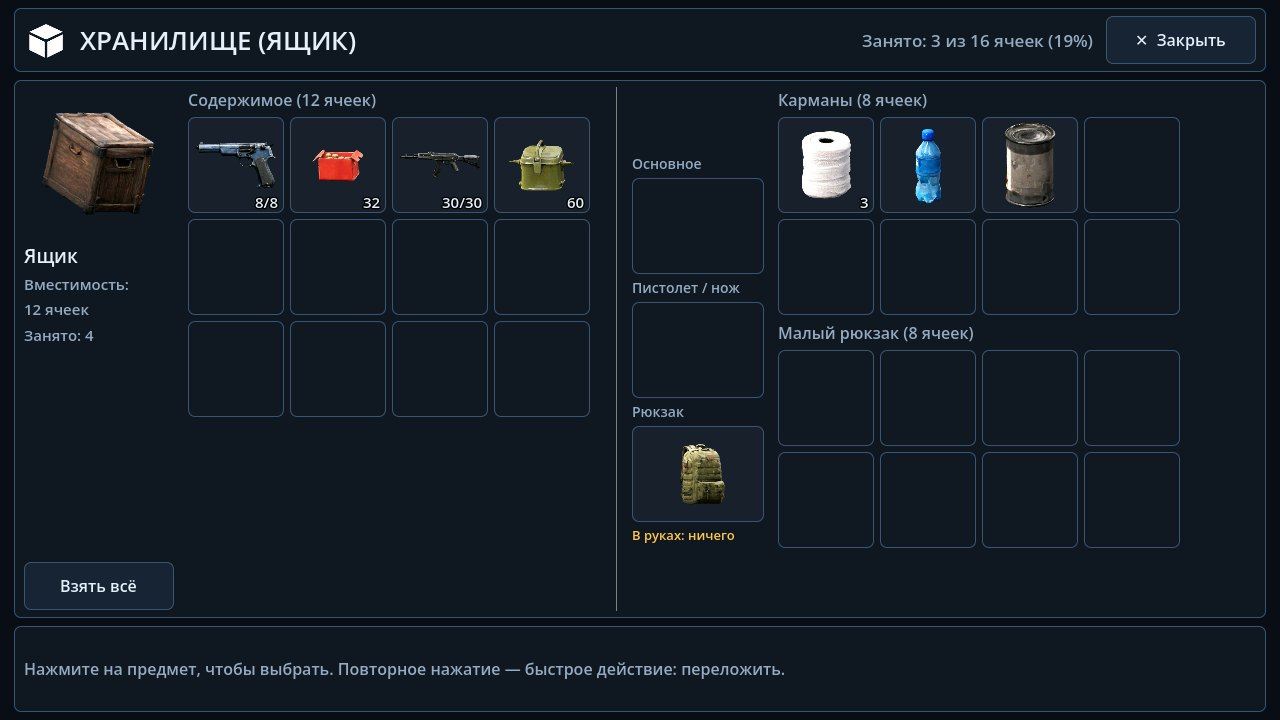
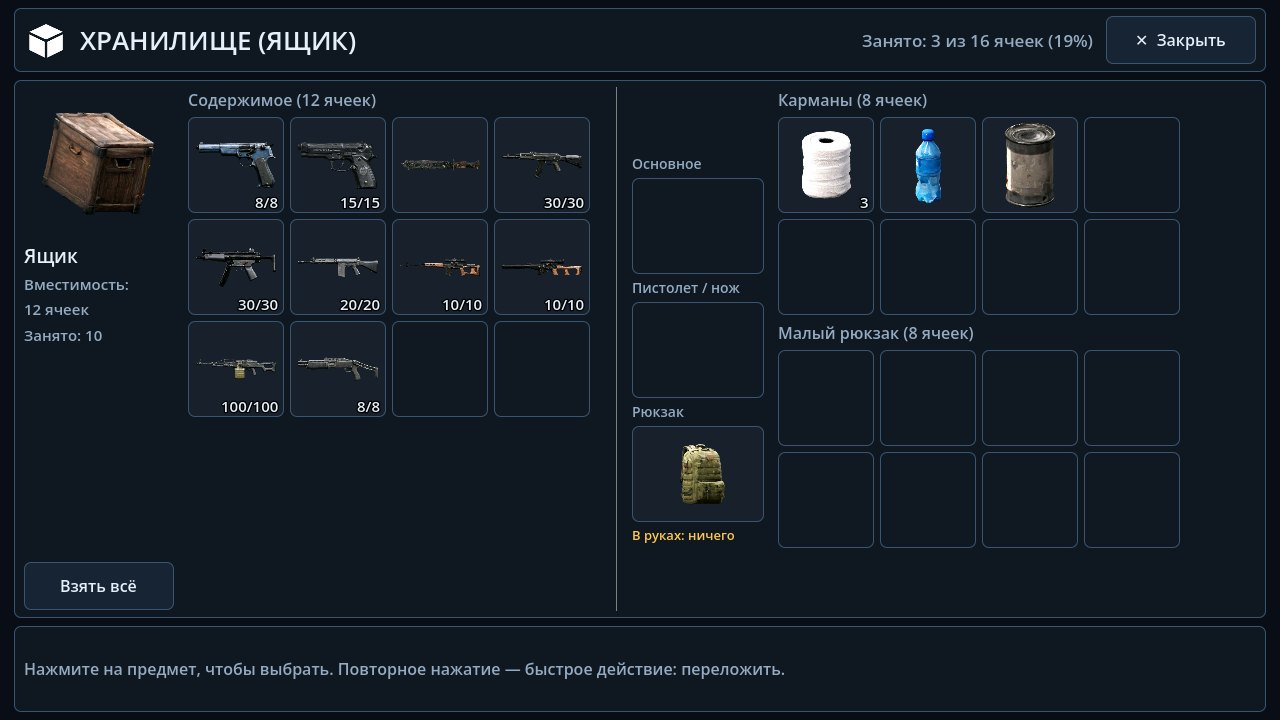
Локация: быстрый отклик управления, автонаведение, манекен, ящики со всем оружием, сборка 15
- разгон до полного бега за 0.1–0.2 с, остановка за 0.1 с; камера без отставания; центр джойстика идёт за пальцем
- удержание кнопки атаки повторяет атаку любым оружием; нажатие во время доставания не теряется
- герой сам берёт ближайшую видимую цель в пределах дальности оружия, под целью — метка
- темп в игре: доставание ×2.2, удары ×1.3, перезарядка ×1.25 (BCWeaponHold: draw_rate, move_rate, reload_rate)
- манекен во дворе: не падает, показывает урон серии и урон в секунду
- при первом запуске в ящиках — всё оружие и патроны; версия сохранения 6
- проверка без экрана: 52 случая, в том числе отклик, автонаведение, манекен

Claude-Session: https://claude.ai/code/session_012mFYCmtNnDBPzGE6DVCLqL

diff --git a/stand/docs/WORLD.md b/stand/docs/WORLD.md
@@ -25,7 +25,10 @@
   по верху — две нити колючей проволоки), спереди — проход-калитка. У забора — бочки и покрышки, во дворе —
   поленница и колода.
 - Ящики (модель Tripo) — хранилища на 12 ячеек: кнопка «Постройка» ставит ящик перед героем (не в стену),
-  в меню — «Убрать ящик». Ящики сохраняются; при первом запуске — два ящика в кладовой.
+  в меню — «Убрать ящик». Ящики сохраняются; при первом запуске — два ящика в кладовой: в первом — всё оружие
+  игры (ТТ, Beretta, мачете, АК-74М, MP5, FN FAL, СВД, ВСС, ПКП, SPAS-12), во втором — патроны ко всему и аптечки.
+- Манекен во дворе справа от крыльца — фигура в рост человека из мешковины на стойке: на нём пробуют оружие.
+  Не падает (запас прочности восстанавливается сам), над головой — урон серии и урон в секунду.
 - Герой — тот же, что на стенде (движения, рюкзаки, оружие, звуки).
 
 ## Вид и графика
@@ -51,6 +54,13 @@
   - **инвентарь**.
 - Справа вверху — «Постройка» (поставить ящик) и «Меню» («Убрать ящик», «Стенд»).
 - Каждый палец обрабатывается отдельно: можно бежать и одновременно стрелять.
+- Отклик: полный бег — через 0.1–0.2 с после нажатия, остановка — за 0.1 с; центр джойстика подтягивается
+  за пальцем (развернуться можно коротким движением); камера идёт за героем без отставания.
+- Атака: удержание кнопки повторяет атаку в темпе оружия (и кулаки, и мачете, и одиночный огонь). Нажатие чуть
+  раньше срока — пока оружие достаётся или не кончился прошлый удар — не теряется. Герой сам поворачивается
+  к ближайшей цели: вплотную — для кулаков и мачете, в пределах дальности оружия — для огнестрела (только к той,
+  что видно: через забор и стены цель не берётся). Под целью — красная метка.
+- В игре оружие достаётся в 2.2 раза быстрее, чем на стенде, удары мачете и кулаков — в 1.3, перезарядка — в 1.25.
 - На компьютере: WASD, Shift — быстрее, пробел — атака, E — действие, I — инвентарь, Q — оружие, R — перезарядка,
   H — лечение, колесо — приблизить.
 
@@ -59,7 +69,8 @@
   (у дробовика — 8 дробин), трассер, вспышка, звук и отдача; патрон уходит из магазина оружия.
 - Перезарядка идёт движением героя (магазин, затвор) и забирает патроны нужного калибра из карманов и рюкзака.
 - Мачете носится во втором слоте вместо пистолета: удар 40. Кулаки — 8 за удар.
-- Мишени-чучела у дома: показывают урон цифрой, на нуле падают и через 6 с встают.
+- Манекен у базы и две мишени-чучела в поле (12 и 25 м от калитки): урон показывается цифрой; чучела на нуле
+  падают и через 6 с встают.
 - Здоровье 100, энергия 100, вода 100. Вода медленно убывает; без воды энергия не восстанавливается.
 
 ## Инвентарь (`core/world/items.gd`, `inventory.gd`, `inventory_ui.gd`)
@@ -76,7 +87,7 @@
 - Выброшенный предмет ложится на землю перед героем — своей 3D-моделью.
 - Рюкзак с земли можно надеть вместе с вещами; надетый при этом ложится на землю со своими вещами. Рюкзак
   с вещами нельзя убрать в ячейку — только выбросить.
-- Всё сохраняется (`user://cluster.json`, версия 5): инвентарь, предметы на земле, содержимое ящиков, здоровье,
+- Всё сохраняется (`user://cluster.json`, версия 6): инвентарь, предметы на земле, содержимое ящиков, здоровье,
   энергия, вода, патроны в магазинах.
 
 ## Набор припасов — одна модель Tripo
@@ -91,7 +102,10 @@
 - Так же можно добавлять следующие наборы: одна генерация — много предметов (`tools/kit_view.gd` — обзор набора).
 
 ## Проверка
-- `godot --path . res://world.tscn -- --as-test=inv` — 41 случай: логика инвентаря (стопки, слоты, ёмкость
+- `godot --path . --headless res://world.tscn -- --as-test=inv` — 52 случая (без экрана — 40 секунд, время
+  считается честно, 60 кадров/с): отклик управления (разгон, остановка, камера), нажатие во время доставания
+  оружия, автонаведение за спину и через забор, удержание кнопки, манекен, содержимое ящиков, а также логика
+  инвентаря (стопки, слоты, ёмкость
   с каждым рюкзаком, переполнение, выброс и подбор, смена рюкзака с вещами, ящик, сохранение) и бой (кулаки,
   мачете во втором слоте, выстрел и расход патронов, попадание по мишени, перезарядка из запаса, пустой запас,
   лечение, вода, энергия) с ответом «верно / ОШИБКА».
